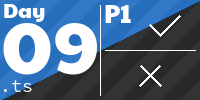
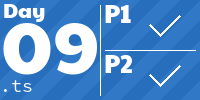
2025 Day 9 part 2

diff --git a/2025/09/main.ts b/2025/09/main.ts
@@ -27,9 +27,6 @@ function isInside(points: number[][], point: number[]): boolean {
       // NOTE: half-open interval here is important
       const withinY = minY < point[1] && point[1] <= maxY;
 
-      if (point[0] == 0 && point[1] == 3) {
-        // console.log({ point, a, b, result: withinY && a[0] > point[0] });
-      }
       if (withinY && a[0] == point[0]) {
         // on the line
         const result = true;
@@ -45,30 +42,74 @@ function isInside(points: number[][], point: number[]): boolean {
   return result;
 }
 
-function allInside(
+function getRectangleCorners(firstCorner: number[], secondCorner: number[]) {
+  return [
+    firstCorner,
+    [firstCorner[0], secondCorner[1]],
+    secondCorner,
+    [secondCorner[0], firstCorner[1]],
+  ];
+}
+
+function isRectangleInscribed(
   firstCorner: number[],
   secondCorner: number[],
   points: number[][],
 ): boolean {
-  const minX = Math.min(firstCorner[0], secondCorner[0]);
-  const minY = Math.min(firstCorner[1], secondCorner[1]);
-  const maxX = Math.max(firstCorner[0], secondCorner[0]);
-  const maxY = Math.max(firstCorner[1], secondCorner[1]);
-  for (let x = minX; x <= maxX; x++) {
-    for (const y of [minY, maxY]) {
-      if (!isInside(points, [x, y])) {
+  // make sure that all 4 corners of the rectangle are inside the polygon
+  for (const [x, y] of getRectangleCorners(firstCorner, secondCorner)) {
+    if (!isInside(points, [x, y])) {
+      return false;
+    }
+  }
+  // make sure that rectangle edges do not cross any polygon edges
+  const rectanglePoints = getRectangleCorners(firstCorner, secondCorner);
+  for (let i = 0; i < points.length; i++) {
+    const p1 = points[i];
+    const p2 = points[(i + 1) % points.length];
+    for (let j = 0; j < 4; j++) {
+      const r1 = rectanglePoints[j];
+      const r2 = rectanglePoints[(j + 1) % 4];
+      if (intersects(p1, p2, r1, r2)) {
         return false;
       }
     }
   }
-  for (let y = minY; y <= maxY; y++) {
-    for (const x of [minX, maxX]) {
-      if (!isInside(points, [x, y])) {
-        return false;
-      }
-    }
-  }
+
   return true;
+}
+
+function intersects(a1: number[], a2: number[], b1: number[], b2: number[]) {
+  // parallel
+  if ((a1[0] == a2[0]) == (b1[0] == b2[0])) {
+    return false;
+  }
+  let h1, h2, v1, v2;
+  if (a1[0] == a2[0]) {
+    // x-coordinates are the same, vertical line
+    v1 = a1;
+    v2 = a2;
+    h1 = b1;
+    h2 = b2;
+  } else {
+    v1 = b1;
+    v2 = b2;
+    h1 = a1;
+    h2 = a2;
+  }
+  const vx = v1[0];
+  const hy = h1[1];
+  if (v1[1] > v2[1]) {
+    const temp = v1;
+    v1 = v2;
+    v2 = temp;
+  }
+  if (h1[0] > h2[0]) {
+    const temp = h1;
+    h1 = h2;
+    h2 = temp;
+  }
+  return h1[0] < vx && vx < h2[0] && v1[1] < hy && hy < v2[1];
 }
 
 const input = await readLines();
@@ -78,14 +119,13 @@ let part1 = 0;
 let part2 = 0;
 for (let i = 0; i < points.length; i++) {
   for (let j = i + 1; j < points.length; j++) {
-    console.log(i, j);
     const a = points[i];
     const b = points[j];
     const width = Math.abs(a[0] - b[0]) + 1;
     const height = Math.abs(a[1] - b[1]) + 1;
     const area = height * width;
     part1 = Math.max(part1, area);
-    if (allInside(a, b, points)) {
+    if (isRectangleInscribed(a, b, points)) {
       part2 = Math.max(part2, area);
     }
   }

diff --git a/README.md b/README.md
@@ -1,9 +1,9 @@
 <!-- AOC TILES BEGIN -->
 <h1 align="center">
-  Advent of Code - 364/518 ⭐
+  Advent of Code - 365/518 ⭐
 </h1>
 <h1 align="center">
-  2025 - 17 ⭐ - TypeScript
+  2025 - 18 ⭐ - TypeScript
 </h1>
 <a href="2025/01/main.ts">
   <img src=".aoc_tiles/tiles/2025/01.png" width="161px">
